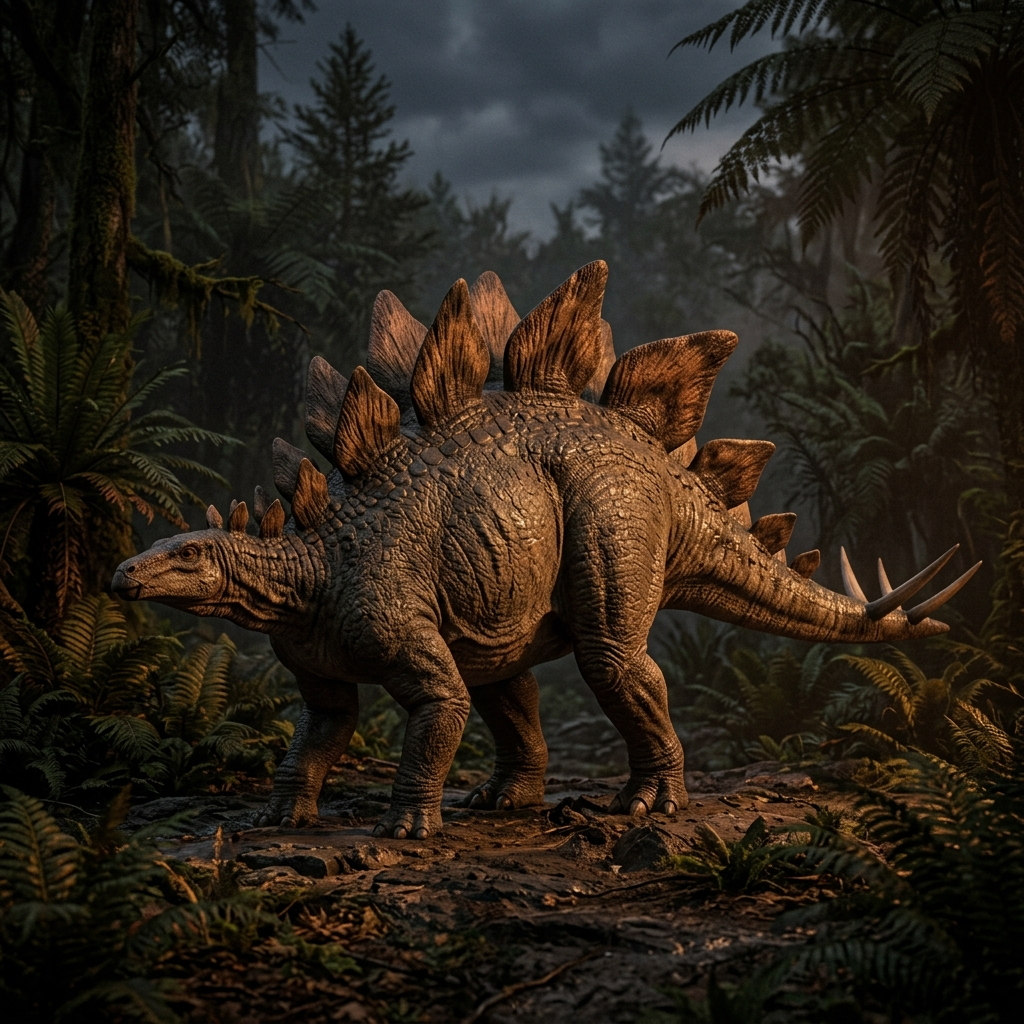
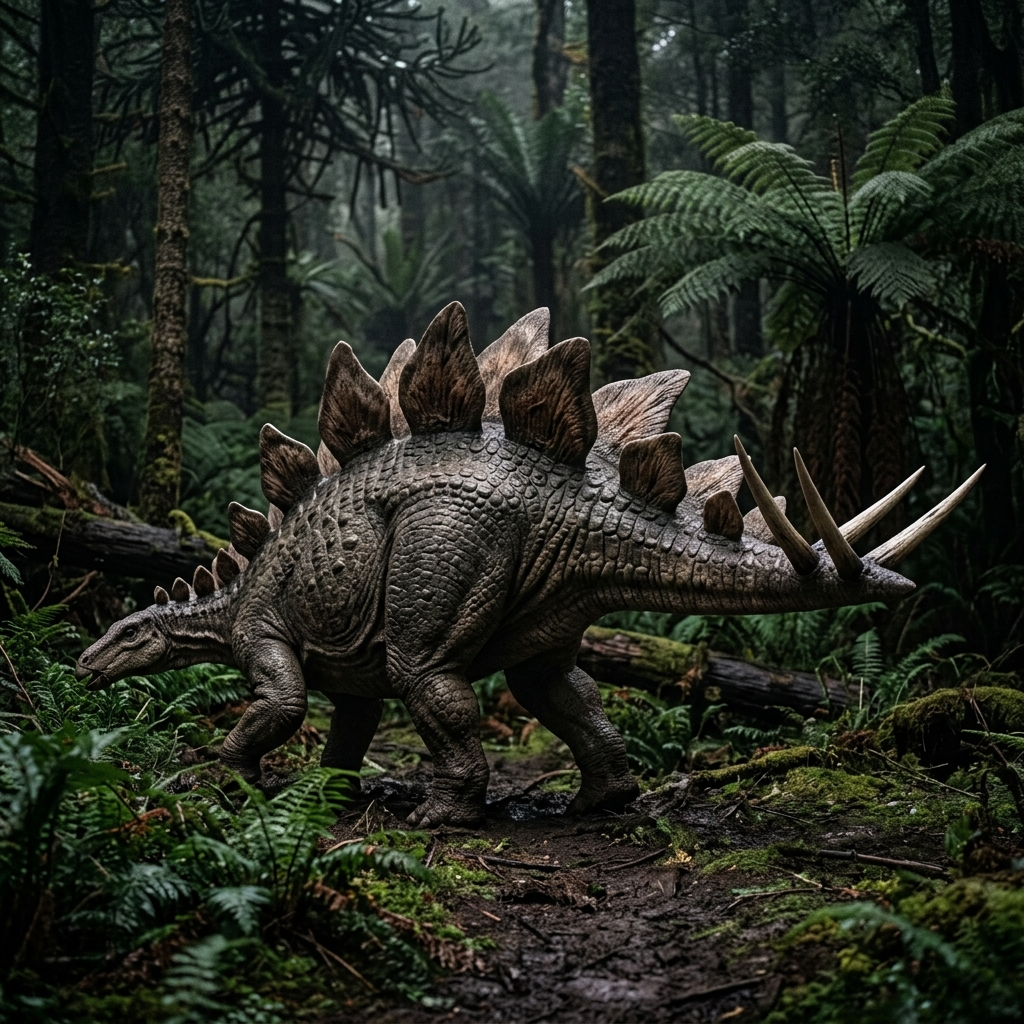
feat: add dinosaur images, update encyclopedia entries, and introduce period-specific search scripts

diff --git a/find_cretaceous.py b/find_cretaceous.py
@@ -1,0 +1,9 @@
+import json
+
+with open('src/data/encyclopedia.json', 'r') as f:
+    data = json.load(f)
+
+cretaceous_dinos = [dino for dino in data if 'Cretaceous' in dino.get('period', '') and not dino.get('image')]
+print(f"Total Cretaceous dinos missing images: {len(cretaceous_dinos)}")
+for d in cretaceous_dinos:
+    print(d['name'], "-", d['description'][:50] + "...")

diff --git a/find_jurassic.py b/find_jurassic.py
@@ -1,0 +1,9 @@
+import json
+
+with open('src/data/encyclopedia.json', 'r') as f:
+    data = json.load(f)
+
+jurassic_dinos = [dino for dino in data if 'Jurassic' in dino.get('period', '') and not dino.get('image')]
+print(f"Total Jurassic dinos missing images: {len(jurassic_dinos)}")
+for d in jurassic_dinos:
+    print(d['name'], "-", d['description'][:50] + "...")

diff --git a/find_triassic.py b/find_triassic.py
@@ -1,0 +1,9 @@
+import json
+
+with open('src/data/encyclopedia.json', 'r') as f:
+    data = json.load(f)
+
+triassic_dinos = [dino for dino in data if 'Triassic' in dino.get('period', '') and not dino.get('image')]
+print(f"Total Triassic dinos missing images: {len(triassic_dinos)}")
+for d in triassic_dinos:
+    print(d['name'], "-", d['description'][:50] + "...")
